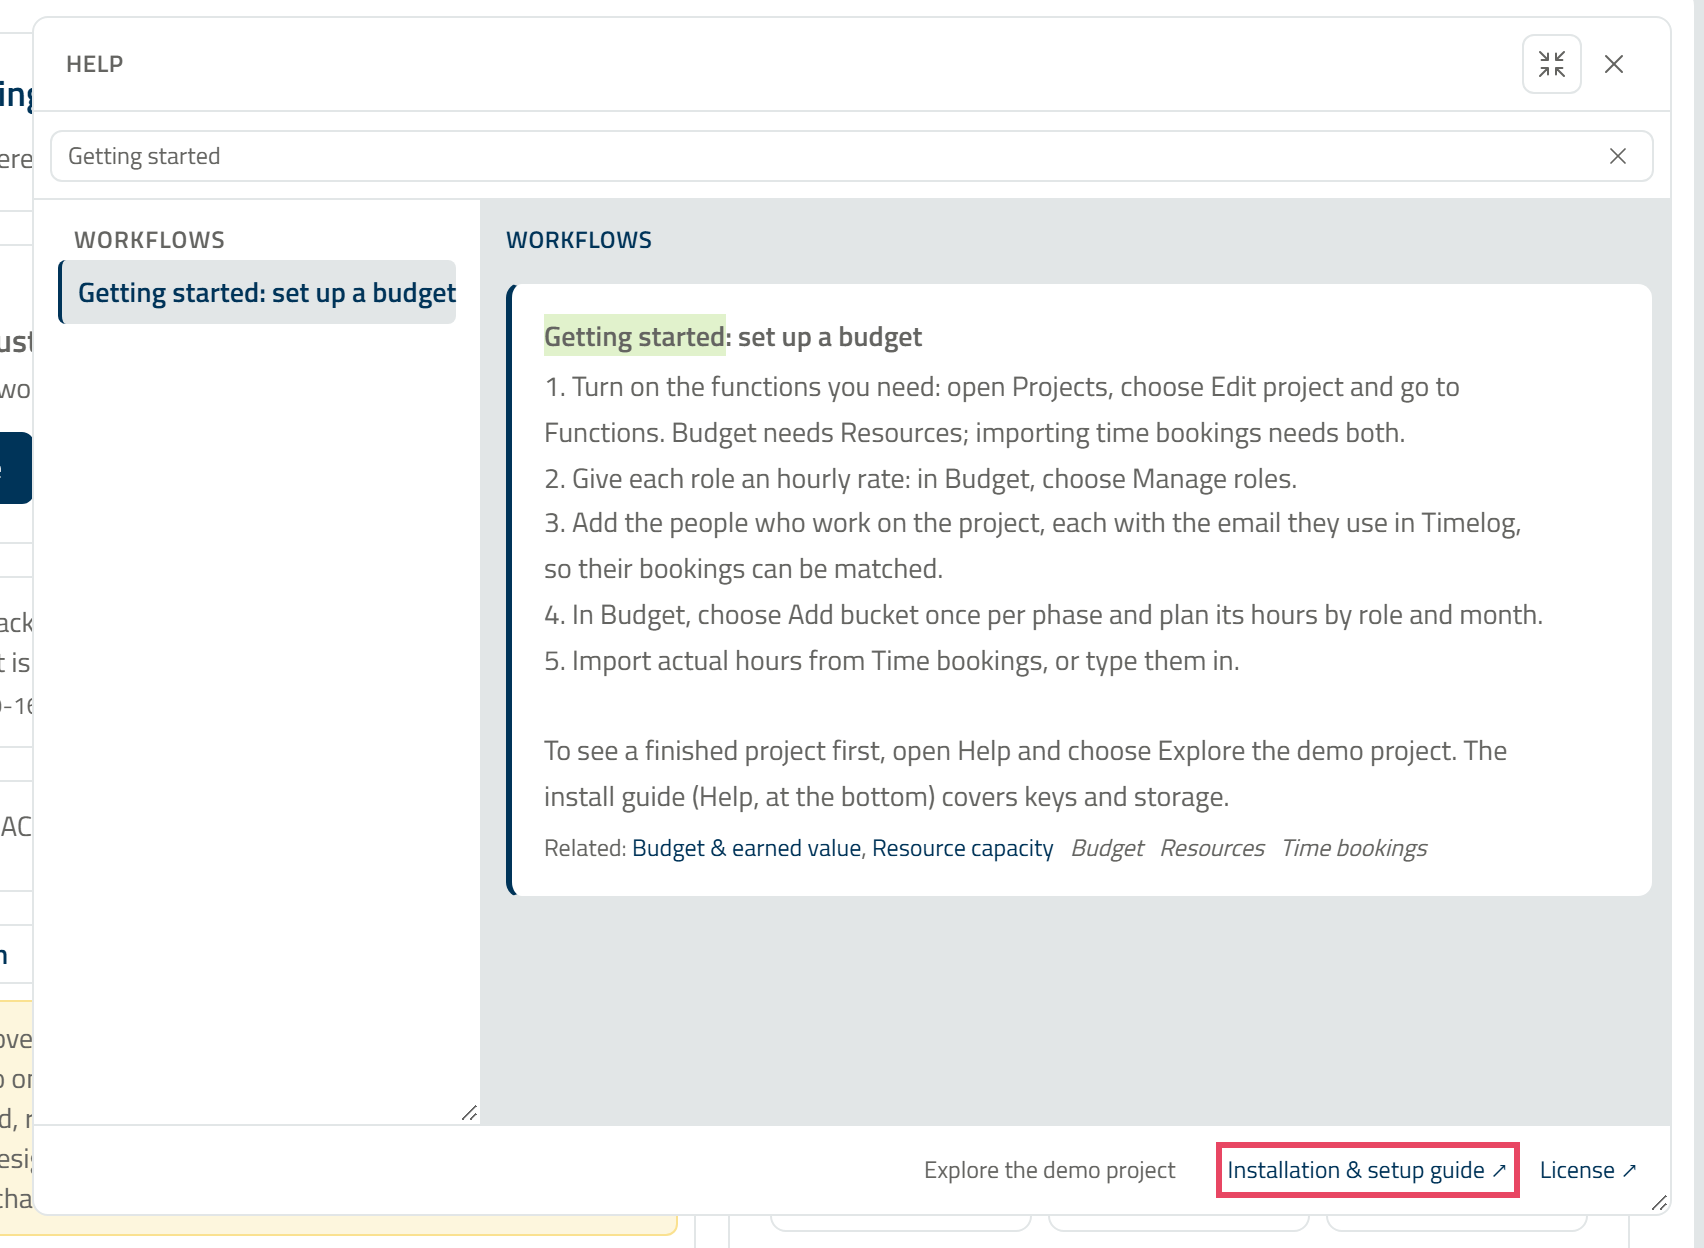
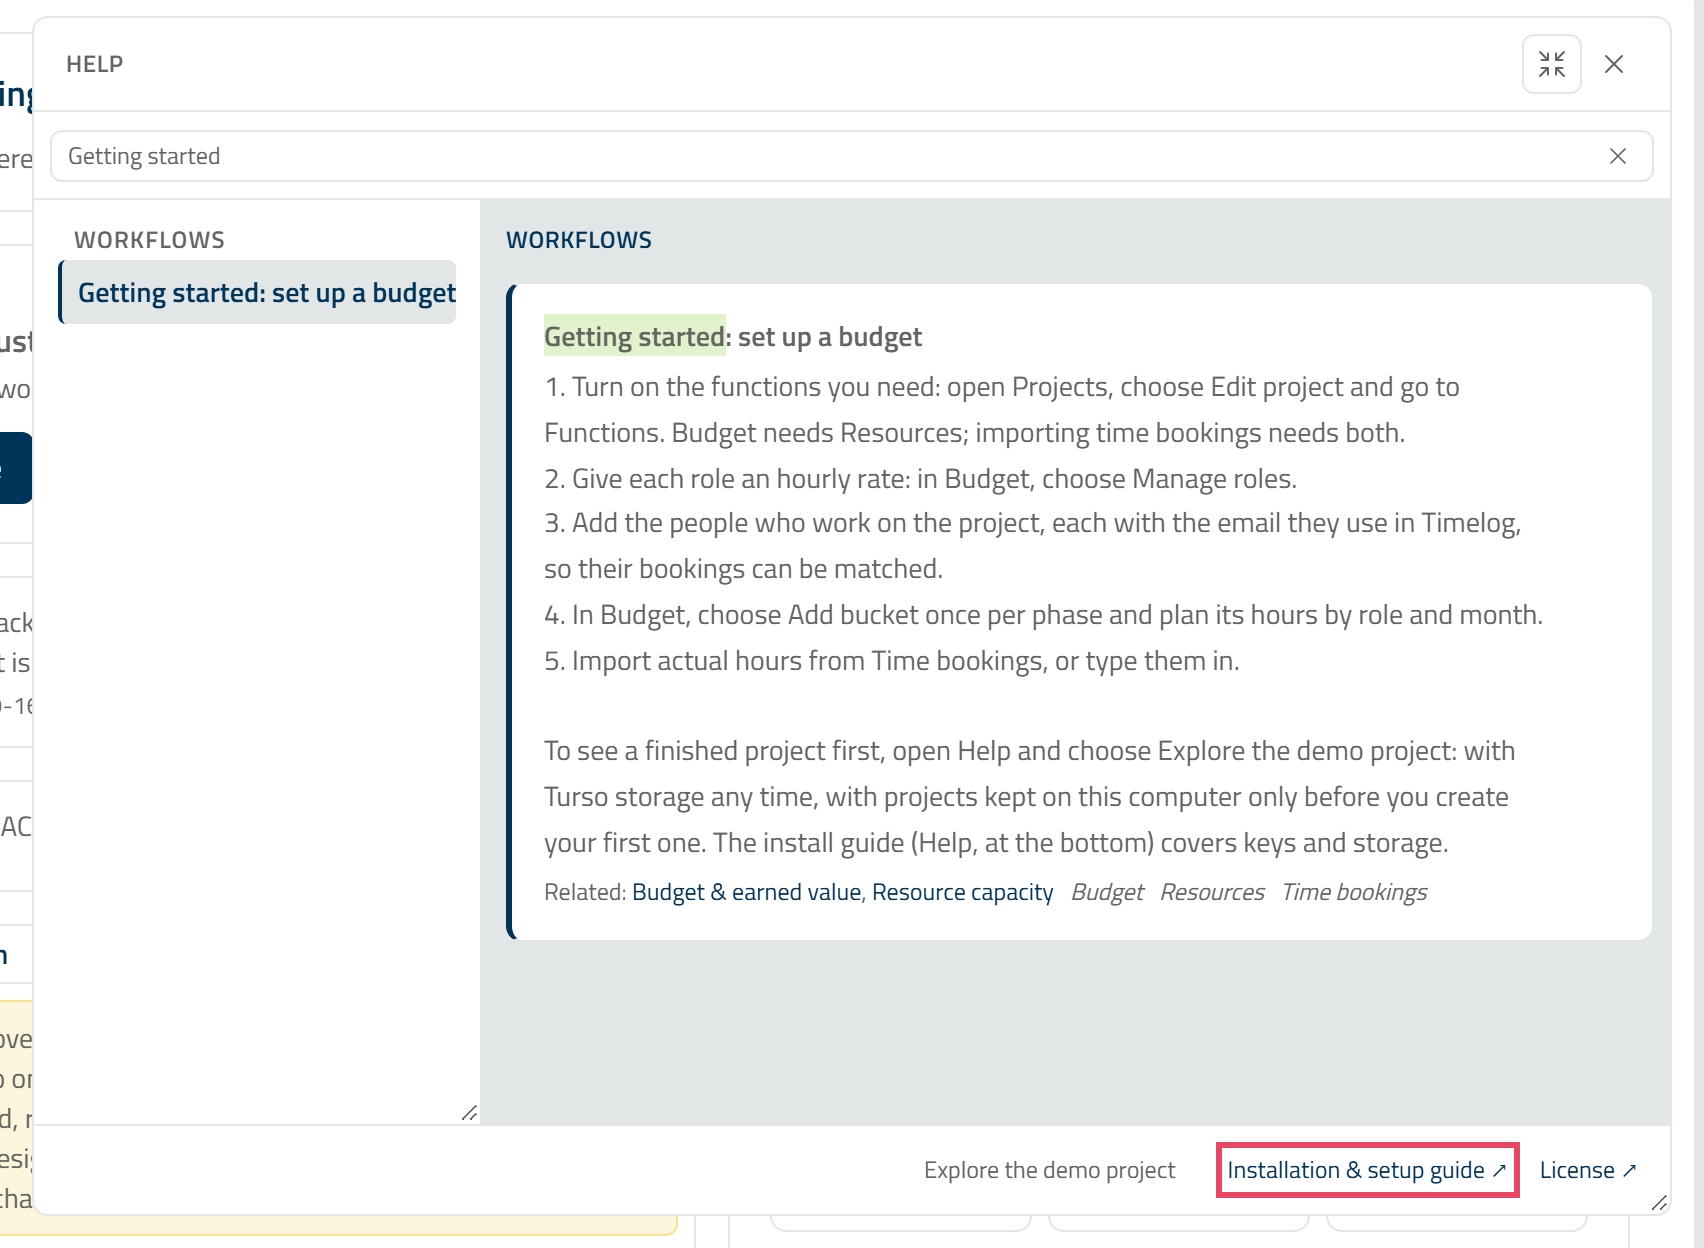
fix: the Getting started Help entry says when the demo project can open (§713)

Changed region(s): [[0.2799, 0.5938, 0.9953, 0.7812]]

diff --git a/src/app/i18n.de.ts b/src/app/i18n.de.ts
@@ -4026,7 +4026,7 @@ export const de: Record<TranslationKey, string> = {
   helpConceptKnowledgeTitle: "Wissen",
   helpConceptKnowledgeBody: "Was: Die Ansicht Wissen sammelt jedes Dokument, jede Confluence-Seite und jeden Link, der irgendwo im Projekt verknüpft ist — mit einer Aufgabe, einem RAID-Eintrag, einer Änderung, einem Meilenstein, einem Stakeholder oder dem Projekt selbst.\n\nWarum wichtig: Verstreute Links sind schwer zu finden; ein Ort zum Ansehen, Filtern und Öffnen hält Nachweise und Referenzen griffbereit.\n\nIn dieser App: Fügen Sie ein SharePoint-Dokument, eine Confluence-Seiten-URL oder eine beliebige Web-URL hinzu, filtern Sie das Raster nach Quelle, suchen Sie nach Namen und springen Sie direkt zum zugehörigen Element.",
   helpWorkflowGettingStartedTitle: "Erste Schritte: ein Budget einrichten",
-  helpWorkflowGettingStartedBody: "1. Schalten Sie die benötigten Funktionen ein: Öffnen Sie Projekte, wählen Sie [[Projekt bearbeiten]] und gehen Sie zu [[Funktionen]]. Budget braucht Ressourcen; der Import von Zeitbuchungen braucht beides.\n2. Geben Sie jeder Rolle einen Stundensatz: Wählen Sie im Budget [[Rollen verwalten]].\n3. Legen Sie die Personen an, die am Projekt arbeiten, jeweils mit der E-Mail-Adresse, die sie in Timelog verwenden, damit ihre Buchungen zugeordnet werden können.\n4. Wählen Sie im Budget pro Phase einmal [[Bucket hinzufügen]] und planen Sie die Stunden nach Rolle und Monat.\n5. Importieren Sie die Ist-Stunden aus [[Zeitbuchungen]] oder tragen Sie sie von Hand ein.\n\nUm zuerst ein fertiges Projekt zu sehen, öffnen Sie die Hilfe und wählen Sie [[Demoprojekt erkunden]]. Die Installationsanleitung (in der Hilfe, ganz unten) erklärt Schlüssel und Speicher.",
+  helpWorkflowGettingStartedBody: "1. Schalten Sie die benötigten Funktionen ein: Öffnen Sie Projekte, wählen Sie [[Projekt bearbeiten]] und gehen Sie zu [[Funktionen]]. Budget braucht Ressourcen; der Import von Zeitbuchungen braucht beides.\n2. Geben Sie jeder Rolle einen Stundensatz: Wählen Sie im Budget [[Rollen verwalten]].\n3. Legen Sie die Personen an, die am Projekt arbeiten, jeweils mit der E-Mail-Adresse, die sie in Timelog verwenden, damit ihre Buchungen zugeordnet werden können.\n4. Wählen Sie im Budget pro Phase einmal [[Bucket hinzufügen]] und planen Sie die Stunden nach Rolle und Monat.\n5. Importieren Sie die Ist-Stunden aus [[Zeitbuchungen]] oder tragen Sie sie von Hand ein.\n\nUm zuerst ein fertiges Projekt zu sehen, öffnen Sie die Hilfe und wählen Sie [[Demoprojekt erkunden]]: mit Turso-Speicher jederzeit, mit Projekten auf diesem Computer nur, bevor Sie Ihr erstes Projekt anlegen. Die Installationsanleitung (in der Hilfe, ganz unten) erklärt Schlüssel und Speicher.",
   helpWorkflowEndToEndTitle: "Ein Projekt von Anfang bis Ende verfolgen",
   helpWorkflowEndToEndBody: "1. Öffnen Sie das Dashboard — prüfen Sie die Gesamt-Ampel (Rot/Gelb/Grün) und die priorisierte Nächste-Aktionen-Liste.\n2. Fügen Sie unter Open Points Ihre Aufgaben hinzu, je mit Verantwortlichem und Fälligkeitsdatum.\n3. Legen Sie wichtige Ergebnisse unter Meilensteine an, damit klar ist, was wann fertig sein muss.\n4. Erfassen Sie Risiken oder Probleme laufend im RAID, damit nichts vergessen wird.\n5. Prüfen Sie das Dashboard täglich — überfällige Punkte werden automatisch markiert und die Nächste-Aktionen-Liste zeigt, was als Nächstes zu tun ist.",
   helpWorkflowPlanTitle: "Mit Meilensteinen & Gantt planen",

diff --git a/src/app/i18n.ts b/src/app/i18n.ts
@@ -4296,7 +4296,7 @@ const enUS = {
   helpConceptKnowledgeTitle: "Knowledge",
   helpConceptKnowledgeBody: "What: The Knowledge view gathers every document, Confluence page, or link connected anywhere in the project — to a task, RAID item, change, milestone, stakeholder, or the project itself.\n\nWhy it matters: Scattered links are hard to find; one place to see, filter, and open them keeps evidence and references at hand.\n\nIn this app: Add a SharePoint document, a Confluence page URL, or any web URL, filter the grid by source, search by name, and jump straight to the item a link is attached to.",
   helpWorkflowGettingStartedTitle: "Getting started: set up a budget",
-  helpWorkflowGettingStartedBody: "1. Turn on the functions you need: open Projects, choose [[Edit project]] and go to [[Functions]]. Budget needs Resources; importing time bookings needs both.\n2. Give each role an hourly rate: in Budget, choose [[Manage roles]].\n3. Add the people who work on the project, each with the email they use in Timelog, so their bookings can be matched.\n4. In Budget, choose [[Add bucket]] once per phase and plan its hours by role and month.\n5. Import actual hours from [[Time bookings]], or type them in.\n\nTo see a finished project first, open Help and choose [[Explore the demo project]]. The install guide (Help, at the bottom) covers keys and storage.",
+  helpWorkflowGettingStartedBody: "1. Turn on the functions you need: open Projects, choose [[Edit project]] and go to [[Functions]]. Budget needs Resources; importing time bookings needs both.\n2. Give each role an hourly rate: in Budget, choose [[Manage roles]].\n3. Add the people who work on the project, each with the email they use in Timelog, so their bookings can be matched.\n4. In Budget, choose [[Add bucket]] once per phase and plan its hours by role and month.\n5. Import actual hours from [[Time bookings]], or type them in.\n\nTo see a finished project first, open Help and choose [[Explore the demo project]]: with Turso storage any time, with projects kept on this computer only before you create your first one. The install guide (Help, at the bottom) covers keys and storage.",
   helpWorkflowEndToEndTitle: "Track a project end to end",
   helpWorkflowEndToEndBody: "1. Open Dashboard — check the Overall RAG (Red/Amber/Green) status and the ranked next-actions queue to see what needs attention first.\n2. Go to Open Points and add your tasks, giving each one an owner and a due date.\n3. Add key deliverables in Milestones so the team knows what must be ready and when.\n4. Log any risks or problems in RAID as they come up so nothing is forgotten.\n5. Check the Dashboard daily — overdue items are flagged automatically and the next-actions queue tells you exactly what to act on next.",
   helpWorkflowPlanTitle: "Plan with milestones & Gantt",

diff --git a/src/app/help-content.test.ts b/src/app/help-content.test.ts
@@ -33,6 +33,14 @@ describe("help-content backbone", () => {
     expect(entry.relatedViews).toEqual(["budget", "resources", "timelog"]);
   });
 
+  // The demo is refused on local storage once a project exists (isLocalDemoBlocked), which is
+  // nearly every user following this entry: it must say when the demo opens, not promise it.
+  it("says when the demo can open, in both languages", async () => {
+    await loadI18n("de");
+    expect(t("en-US", "helpWorkflowGettingStartedBody")).toMatch(/Turso storage any time.*before you create your first one/);
+    expect(t("de", "helpWorkflowGettingStartedBody")).toMatch(/Turso-Speicher jederzeit.*bevor Sie Ihr erstes Projekt anlegen/);
+  });
+
   it("every group in HELP_GROUP_ORDER has a label", () => {
     for (const g of HELP_GROUP_ORDER) expect(HELP_GROUP_LABEL[g]).toBeTruthy();
   });
